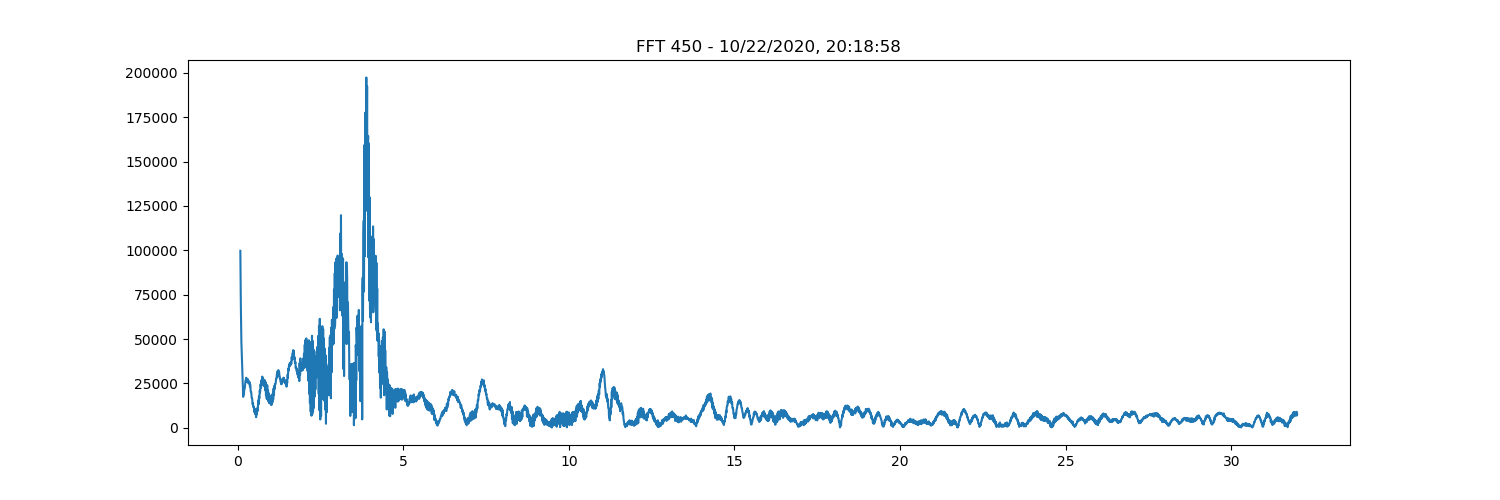
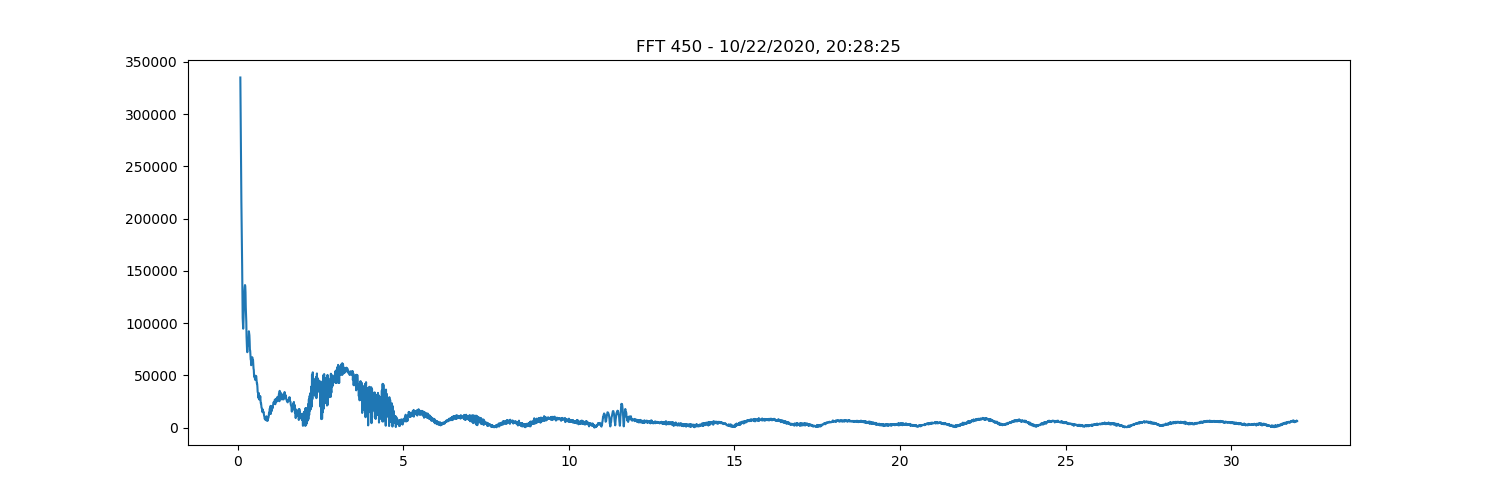
Updated NDT exercise

diff --git a/py_fpga/ndt.py b/py_fpga/ndt.py
@@ -46,12 +46,12 @@ if __name__ == "__main__":
     # Starting an object 
     fpga = py_fpga(i2c_bus=i2c_bus, py_audio=p, spi_bus=spi)
     # Setting up the pulse - PHV time for duration of positivepulse
-    fpga.set_waveform(pdelay=1, PHV_time=11, PnHV_time=1, PDamp_time=100)
+    fpga.set_waveform(pdelay=1, PHV_time=20, PnHV_time=0, PDamp_time=20)
 
     print("Setting DAC")
     startVal,nPtsDAC = 450, 16
     for i in range(nPtsDAC):
-        fpga.set_dac(int(startVal + (i*(455-startVal))/nPtsDAC), mem=i)
+        fpga.set_dac(int(startVal + (i*(511-startVal))/nPtsDAC), mem=i)
 
     fpga.set_dac(450, mem=0)
     fpga.set_dac(450, mem=1)
@@ -63,7 +63,7 @@ if __name__ == "__main__":
     fpga.set_dac(dacVal) 
     # Capturing the signal
     fpga.capture_signal()
-    data = fpga.read_fft_through_i2s(10)  
+    #data = fpga.read_fft_through_i2s(10)  
     print("Acq done, reading through spi")
     # Reading the signal
     data = fpga.read_signal_through_spi()
@@ -71,7 +71,12 @@ if __name__ == "__main__":
     fig = plt.figure(figsize=(15,5))
     fig = plt.plot( t[0:64*50],data[0:64*50] ) # 64msps * 50us
     plt.title("Gain set at "+str(dacVal)+ " - "+now.strftime("%m/%d/%Y, %H:%M:%S"))
-    plt.savefig("ndt_raw.png")   
+    plt.savefig("ndt_raw_detail.png")   
+
+    fig = plt.figure(figsize=(15,5))
+    fig = plt.plot( t,data ) # 64msps * 50us
+    plt.title("Gain set at "+str(dacVal)+ " - "+now.strftime("%m/%d/%Y, %H:%M:%S"))
+    plt.savefig("ndt_raw_all.png")   
 
     fig = plt.figure(figsize=(15,5))
     L = len(data)
